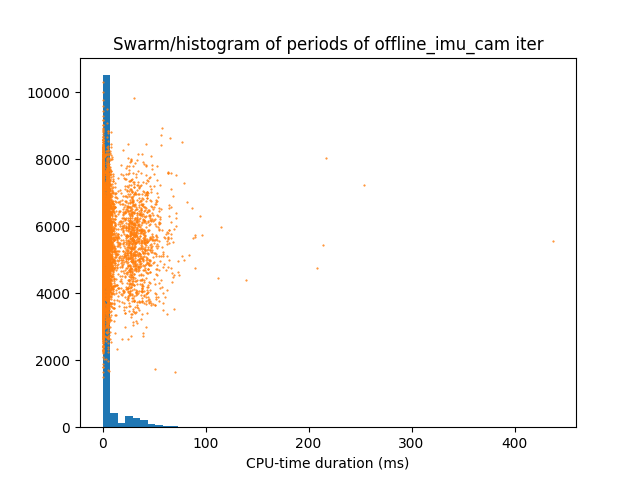
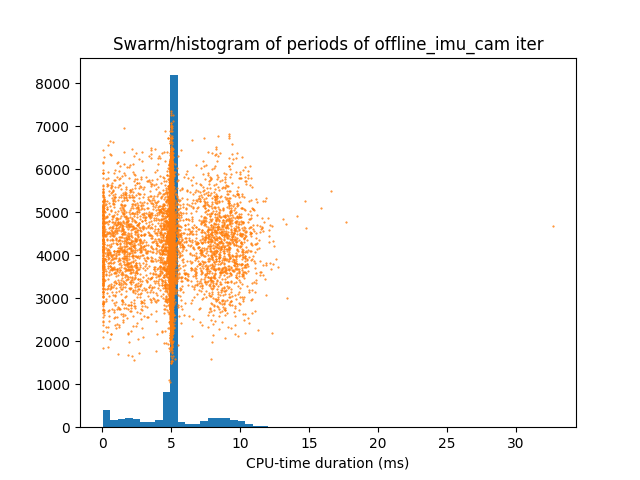
jetson output

diff --git a/analysis/main.py b/analysis/main.py
@@ -33,7 +33,7 @@ with ch_time_block.ctx("Read SQLite tables", print_start=False):
     threadloop_skip_stop       = read_illixr_table("threadloop_skip_stop"      , ["plugin_id", "iteration_no", "skip_no"])
     switchboard_callback_start = read_illixr_table("switchboard_callback_start", ["plugin_id", "serial_no"])
     switchboard_callback_stop  = read_illixr_table("switchboard_callback_stop" , ["plugin_id", "serial_no"])
-    switchboard_topic_stop     = read_illixr_table("switchboard_topic_stop"    , ["topic_name"])
+    #switchboard_topic_stop     = read_illixr_table("switchboard_topic_stop"    , ["topic_name"])
 
 def compute_durations(start: pd.DataFrame, stop: pd.DataFrame):
     ts = pd.merge(

diff --git a/output/account_summaries.md b/output/account_summaries.md
@@ -1,16 +1,16 @@
 |                             |   cpu_duration_mean |   cpu_duration_sum |   cpu_duration_std |   count |   wall_duration_mean |   wall_duration_sum |   wall_duration_std |   period_mean |   period_std |
 |:----------------------------|--------------------:|-------------------:|-------------------:|--------:|---------------------:|--------------------:|--------------------:|--------------:|-------------:|
-| ('offline_imu_cam', 'iter') |          1.55095    |         18876.6    |         4.70159    |   12171 |            3.59763   |          43786.7    |           12.1525   |   4.99966     |      12.5677 |
-| ('gldemo', 'iter')          |          0.501292   |          1787.61   |         0.34703    |    3566 |           16.9671    |          60504.6    |            2.4799   |   0.00860905  |    1015.96   |
-| ('timewarp_gl', 'iter')     |          4.97322    |         17804.1    |         2.31616    |    3580 |           16.6217    |          59505.7    |            5.13286  |   0.00396823  |     999.385  |
-| ('debugview', 'iter')       |          2.87816    |         10367.1    |         0.880799   |    3602 |           16.6371    |          59926.8    |            4.53035  |   0.0040398   |    1001.21   |
-| ('audio_component', 'iter') |          5.91551    |         16930.2    |         1.13952    |    2862 |           11.6307    |          33287.1    |            6.46098  |   0.00427028  |    1123.23   |
-| ('offline_imu_cam', 'skip') |          0.0662985  |           806.919  |         0.150102   |   12171 |            1.36514   |          16615.1    |            2.71927  |   4.9996      |      13.425  |
-| ('gldemo', 'skip')          |          0.00589625 |            21.026  |         0.0101373  |    3566 |            0.0262327 |             93.5459 |            1.19782  |   0.00884487  |    1015.95   |
-| ('timewarp_gl', 'skip')     |          0.00906305 |            32.4457 |         0.0131443  |    3580 |            0.0334105 |            119.61   |            0.425267 |   0.00396712  |     999.386  |
-| ('debugview', 'skip')       |          0.00732791 |            26.3951 |         0.00974922 |    3602 |            0.0150689 |             54.2782 |            0.169963 |   0.00404139  |    1001.21   |
-| ('audio_component', 'skip') |          0.31928    |           913.78   |         0.293781   |    2862 |            9.29799   |          26610.8    |            6.08465  |  -0.000816989 |    1123.59   |
-| ('slam2', 'cb')             |          4.42603    |         25586.9    |        14.732      |    5781 |           10.2098    |          59022.9    |           32.3222   |  10.4819      |      33.1461 |
-| ('debugview', 'cb')         |          0.00423722 |            24.2835 |         0.00825365 |    5731 |            0.0358366 |            205.38   |            0.309371 |   0.0306867   |     793.173  |
+| ('offline_imu_cam', 'iter') |          0.793579   |          9611.04   |         2.36741    |   12111 |           0.89704    |          10864.1    |           2.68866   |    4.99999    |      1.85219 |
+| ('gldemo', 'iter')          |          0.500093   |          1795.83   |         0.277632   |    3591 |          16.7605     |          60187      |           1.01398   |    0.00303226 |   1005.55    |
+| ('timewarp_gl', 'iter')     |          1.55599    |          5610.9    |         0.502311   |    3606 |          16.6613     |          60080.6    |           1.04756   |    0.00419361 |   1002.18    |
+| ('debugview', 'iter')       |          1.71125    |          6110.87   |         0.270152   |    3571 |          16.7947     |          59973.9    |           2.10961   |    0.00925544 |   1004.89    |
+| ('audio_component', 'iter') |          3.56419    |         10211.4    |         0.239636   |    2865 |           3.94281    |          11296.2    |           0.859247  |    0.0190213  |   1122.71    |
+| ('offline_imu_cam', 'skip') |          0.116451   |          1410.34   |         0.0609399  |   12111 |           4.07938    |          49405.4    |           1.82673   |    4.99959    |      3.48938 |
+| ('gldemo', 'skip')          |          0.00668625 |            24.0103 |         0.00890752 |    3591 |           0.00683175 |             24.5328 |           0.0112205 |    0.00441283 |   1005.47    |
+| ('timewarp_gl', 'skip')     |          0.00859693 |            31.0005 |         0.0131346  |    3606 |           0.0134091  |             48.3533 |           0.094211  |    0.00419388 |   1002.18    |
+| ('debugview', 'skip')       |          0.00743275 |            26.5424 |         0.00906491 |    3571 |           0.00958955 |             34.2443 |           0.0475782 |    0.00925476 |   1004.89    |
+| ('audio_component', 'skip') |          0.243359   |           697.224  |         0.0780975  |    2865 |          17.0162     |          48751.4    |           1.1538    |    0.0187627  |   1123       |
+| ('slam2', 'cb')             |          2.58275    |         31215.1    |         8.17424    |   12086 |           3.56039    |          43030.8    |          10.9964    |    5.00137    |     11.1783  |
+| ('debugview', 'cb')         |          0.00438232 |            52.7675 |         0.00485381 |   12041 |           0.00503444 |             60.6197 |           0.0161419 |    0.00247621 |    548.753   |
 
 All times are in milliseconds unless otherwise mentioned.
